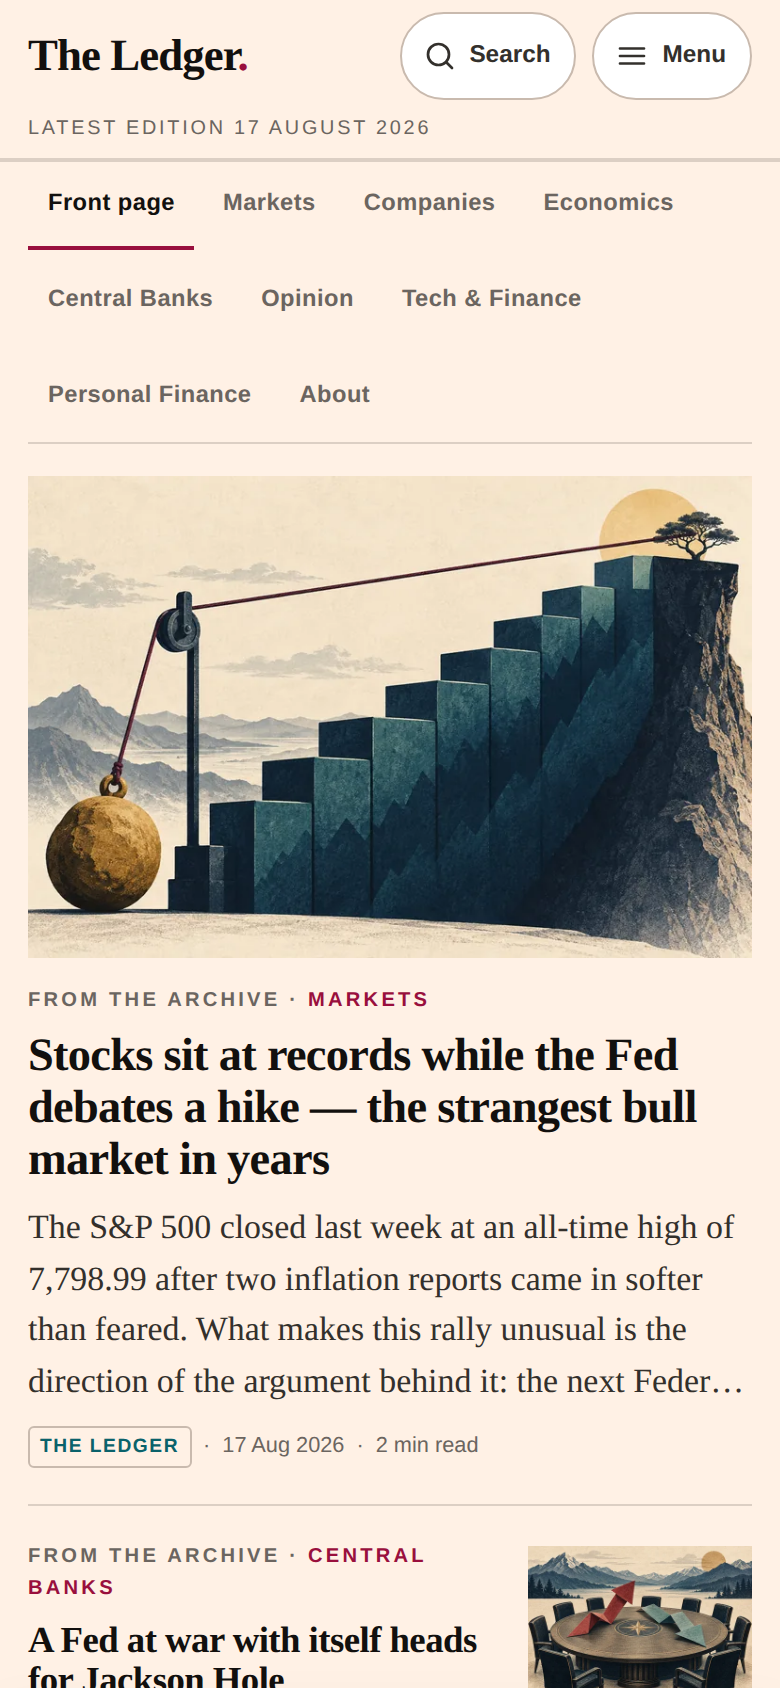
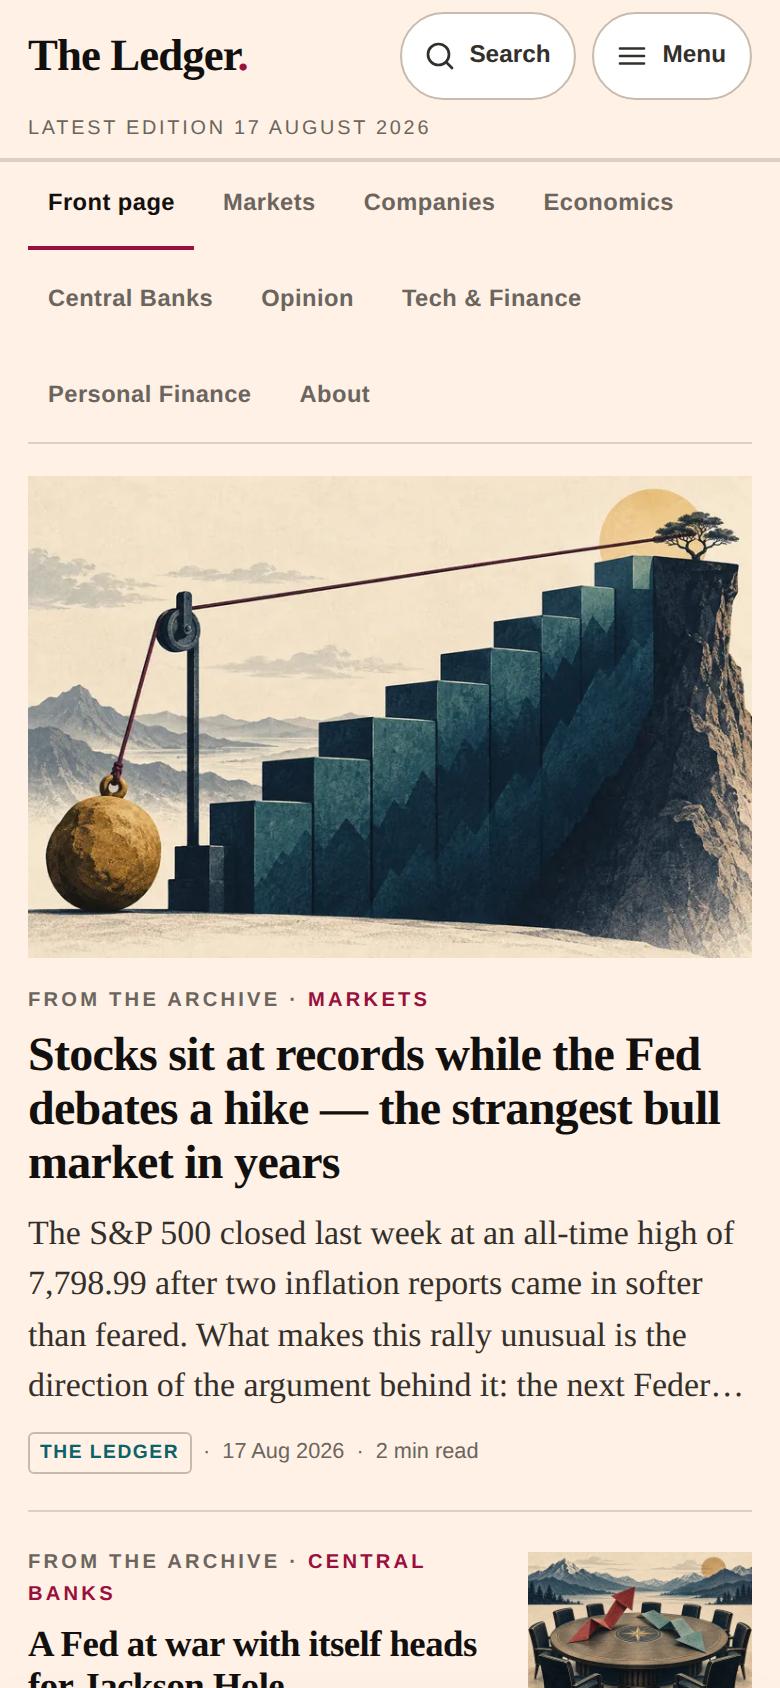
Design evidence: test results per suite, cloud and local, with the incomplete cloud runs recorded as such; final screenshots
Claude-Session: https://claude.ai/code/session_014CQxMUMTurkuumusd61vsq

Changed region(s): [[0.0308, 0.6161, 0.9538, 1.0], [0.6769, 0.8934, 0.9846, 1.0], [0.4, 0.8934, 0.5231, 0.9242]]

diff --git a/docs/design/README.md b/docs/design/README.md
@@ -137,6 +137,26 @@ the text-size setting, the Listen dock's space, Back and Forward from a
 direct story load, Save/Copy/Share, no overflow from 320 to 1440 px, no
 master shipped, and the worker's bounded image cache.
 
+### Test evidence for the release head (28e084f)
+
+All runs are headless Chromium, not GitHub CI (this repository has no CI test
+job). "Cloud" is this build sandbox, where Google Fonts and every external
+host are unreachable; "local" is the reviewer's machine, where fonts load.
+
+| Suite | Cloud (this sandbox) | Local (independent reviewer) |
+|---|---|---|
+| `qa.py` | 54/54 | 53/54 before the drop-cap check was aligned; the same change |
+| `qa_feed.py` | 26/26 | 26/26 |
+| `qa_seo.py` | 49/49 at 3b7b5e4 (no change to the checked files since) | 49/49 |
+| `qa_package1.py` | 114/114 | 114/114 |
+| `qa_pages.py` | traceback in a chained run while the media suite ran alongside; the solo re-run was stopped by the reviewer's release decision — recorded as **not completed here** (`evidence/suites-chain-cloud.log`) | 89/90: every page and worker check passed; the one failure was `check_site.sh` splitting an absolute Windows path with a space, which passes with a relative `_site` and does not affect the Linux workflow |
+| `qa_media.py` | 38 of 39 checks passed, then stopped before the final overflow sweep by the same decision — recorded as **incomplete** (`evidence/qa_media-28e084f-cloud-incomplete.log`) | 39/39 with external font requests isolated; the cache-upgrade scenario also run without request routing: the changed 1200 px picture was served, the new worker's build evaluated, only the new build's caches remained |
+| `eval_topics.mjs` | 83/86 (96.5 %), unchanged | — |
+
+The cloud traceback and the stopped runs are not reproduced product defects;
+no functional failure was found in any completed check. The reviewer's local
+runs cover the behaviour the two incomplete cloud runs would have covered.
+
 Not done here: a physical iPhone Safari check (outstanding; the owner can do
 it on the deployed page), and field performance data (none exists for this
 origin; lab measurements are in the pull request). The section-page
